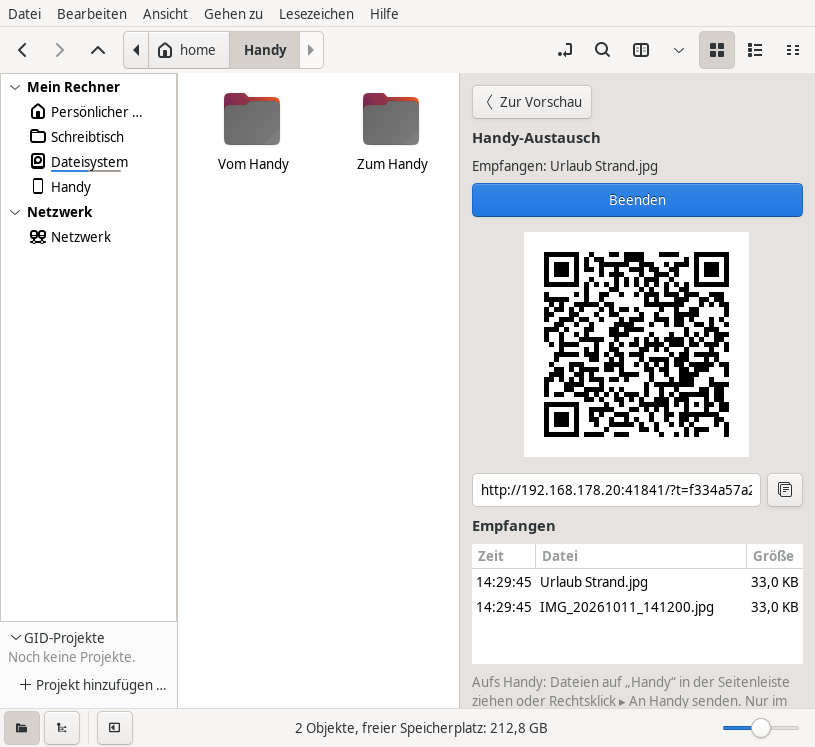
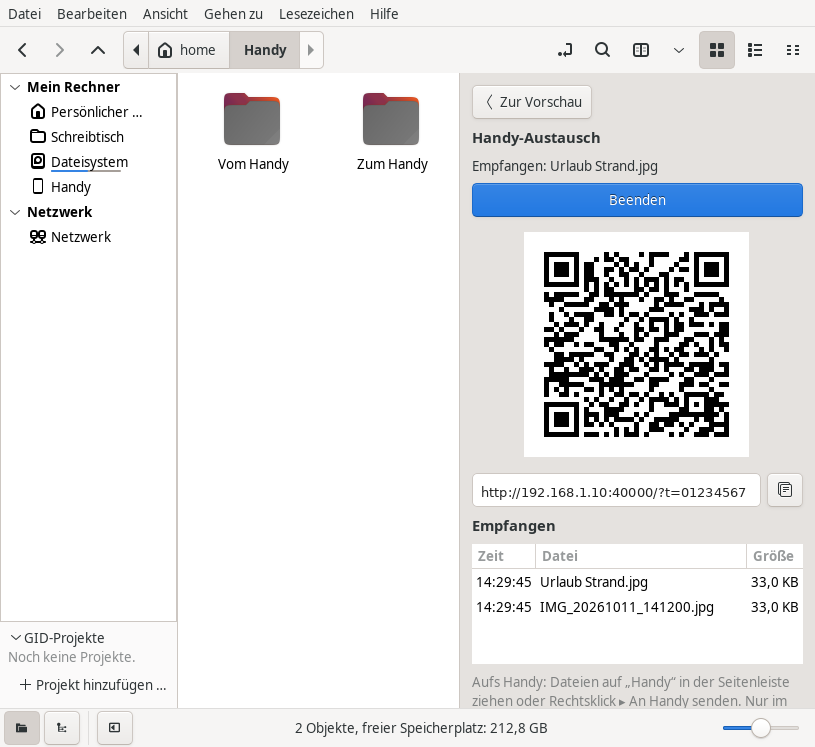
Doku: echte Verbindungsdaten aus Beispielen entfernt (Platzhalter), im Bild erfundener QR-Code und Platzhalter-Link

Changed region(s): [[0.6442, 0.3387, 0.8896, 0.585], [0.5828, 0.6466, 0.9202, 0.6774]]

diff --git a/docs/AENDERUNGSPROTOKOLL.md b/docs/AENDERUNGSPROTOKOLL.md
@@ -203,3 +203,10 @@ Unter TEST steht nur, was tatsächlich ausgeführt wurde: **Meson** = automatisc
 - ÄNDERUNG: Der Eintrag nennt jetzt Version 4.26 als optionale Erweiterung und trennt, was am echten Handy geprüft wurde, was nur am PC automatisch getestet ist und was nicht geprüft wurde.
 - WARUM: Die Angaben stammten aus dem Stand vom 11. Oktober 2026 und passten nicht mehr zur App.
 - TEST: Nur Dokumentation. Die Angaben beruhen auf den Läufen von `nolphin-handy/test.sh` und den Prüfungen am echten Handy vom 12. Oktober 2026.
+
+## Doku: echte Verbindungsdaten aus Beispielen entfernt
+- REQUIREMENT: In der öffentlichen Doku sollen keine echten Verbindungslinks, Schlüssel oder Rechnernamen stehen.
+- DATEI: `docs/handy-austausch-analyse.md`, `docs/handy-austausch-api.md`, `docs/bilder/panel-handy.png`.
+- ÄNDERUNG: Der Beispiel-Link (Adresse, Port, Schlüssel, Ablaufzeit), der Beispielbefehl und die Beispielantwort mit dem Rechnernamen sind durch erfundene Platzhalter ersetzt (`192.168.1.10:40000`, `0123456789abcdef…`, `mein-laptop`). Im Bild `panel-handy.png` ist der echte QR-Code durch einen erfundenen ersetzt (mit dem Nolphin-Encoder aus demselben Platzhalter-Link erzeugt, enthält nichts Echtes), und die Link-Zeile zeigt den Platzhalter.
+- WARUM: Die Werte stammten aus einer echten Sitzung vom 11. Oktober 2026. Der Schlüssel war nur für diese Sitzung gültig und ist abgelaufen, soll aber nicht öffentlich stehen. Frühere Stände bleiben in der Git-Geschichte.
+- TEST: Mit `grep` in der Doku nach der Adresse, dem Schlüssel und dem Rechnernamen gesucht: keine Treffer mehr. Das Bild wurde angesehen; der QR-Code entstand aus dem Platzhalter-Text und nicht aus der Sitzung. Der Quelltext enthält nur erfundene Testwerte.

diff --git a/docs/handy-austausch-analyse.md b/docs/handy-austausch-analyse.md
@@ -89,7 +89,7 @@ Die vorhandene Schnittstelle genügt für Dateiübertragungen in beide Richtunge
 Der Plan nennt als Beispiel ein JSON-Objekt. Der QR-Code enthält stattdessen einen **Link**, weil die Kamera des Handys einen Link öffnen kann: Beim ersten Scan landet man so auf der Seite von Nolphin, die die App zum Installieren anbietet. Ein JSON-Text würde von der Kamera nur als Text angezeigt. Die Felder sind dieselben wie im Vorschlag: Adresse, Port, Schlüssel, Ablaufzeit, dazu die Version.
 
 ```
-http://192.168.178.20:43913/?t=4d6d1633ec8ca225aaeb5ddfbc5a1b6d&v=1&e=1791769130
+http://192.168.1.10:40000/?t=0123456789abcdef0123456789abcdef&v=1&e=1700000000
 ```
 
 ## Verbindungsablauf
